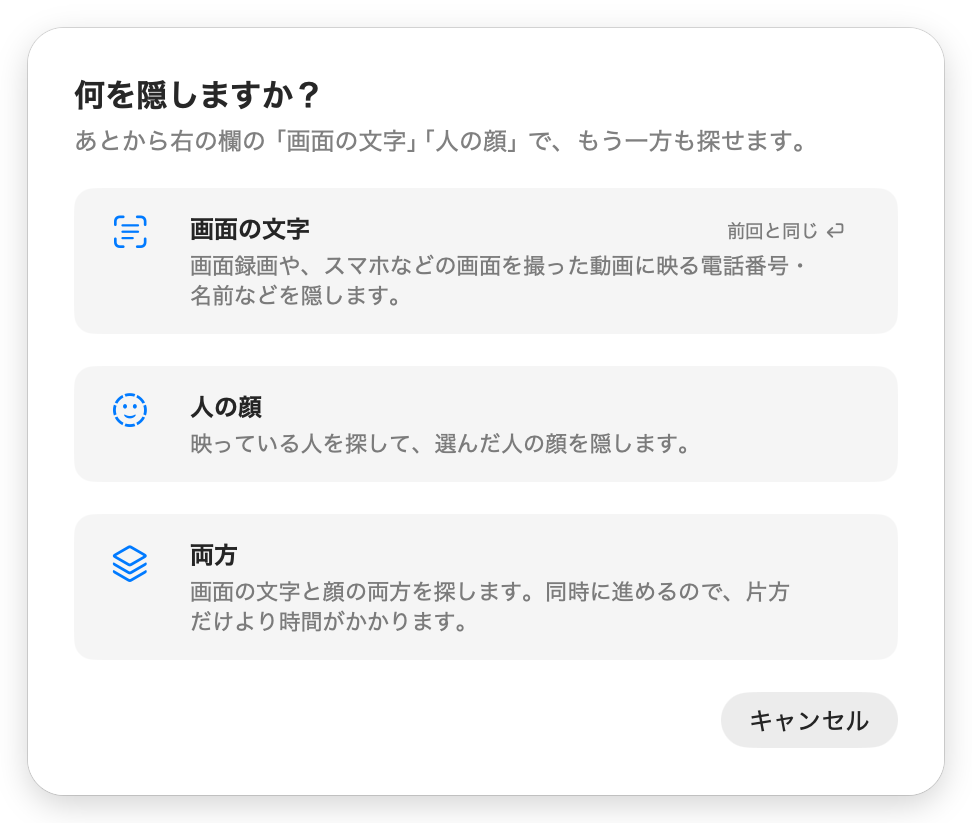
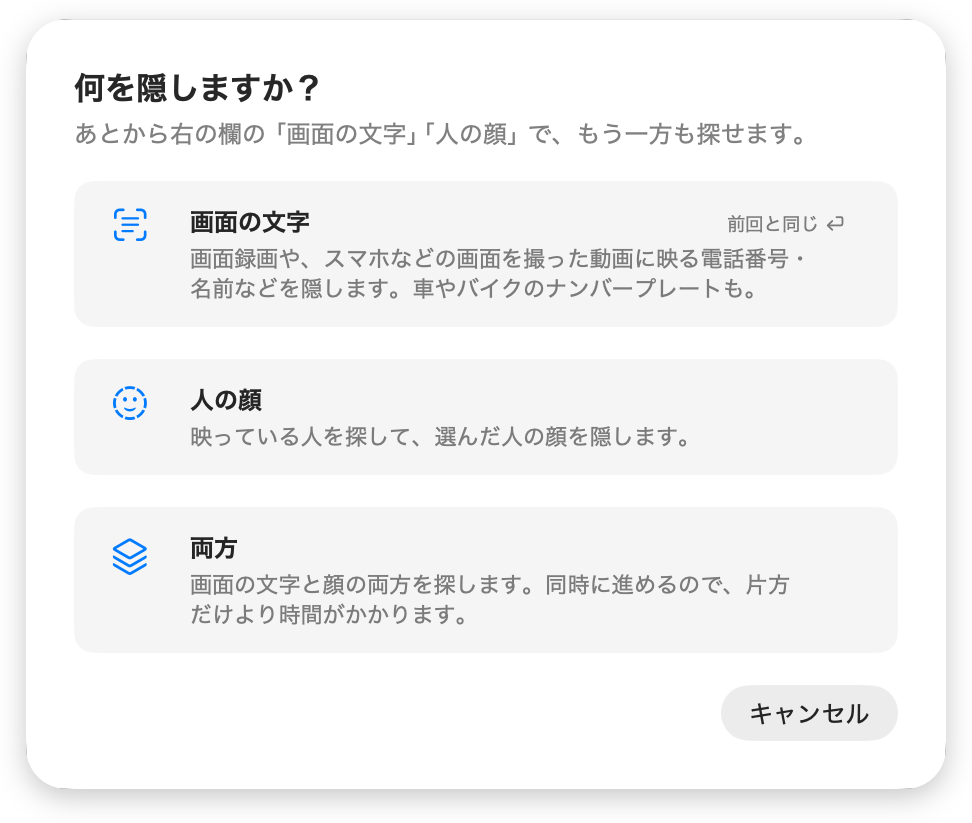
docs(readme): 画面の文字と用途選択の画像をナンバープレート対応の画面に撮り直す
v1.5 でナンバープレートを加えたあとも、README の画像が前の画面のままで、種類の一覧に「車・バイクのナンバープレート」がなく、用途選択の説明にもプレートが入っていなかったため。
あわせて、種類の一覧のプレートの短い説明を、上の段の組（「三河 330」）と動く車の追跡に合わせた。画像は架空データの画面録画（testdata/screen.mov）で撮った。

diff --git a/Sources/WipeMosaicApp/TextInspectorView.swift b/Sources/WipeMosaicApp/TextInspectorView.swift
@@ -21,7 +21,7 @@ extension TextKind {
         case .url: "https://・www. で始まるもの、.com・.jp などで終わるもの"
         case .address: "〒や「〜県〜市」「〜区1-2-3」。行の終わりと、すぐ下の行も"
         case .name: "よくある名字と、続く名前や「さん」など。ほかの名前は「隠す言葉」へ"
-        case .plate: "日本のナンバー（「12-34」「・・12」）。プレートごと隠します（試験的）。遠くの小さいものは見つからないことも"
+        case .plate: "日本のナンバー（「12-34」「三河 330」など）。動く車も追って、プレートごと隠します（試験的）。遠くの小さいものは見つからないことも"
         case .qr: "LINEの友だち追加・支払い・サインイン用など。ぼけたものは見つからないことも"
         }
     }
